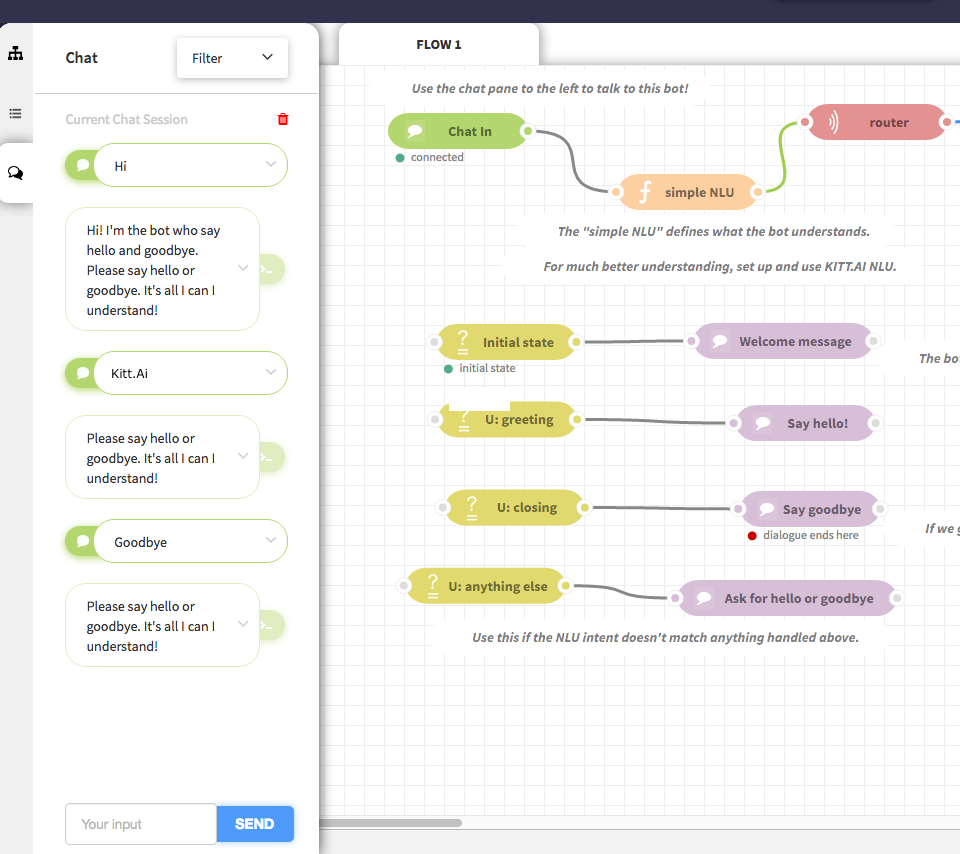
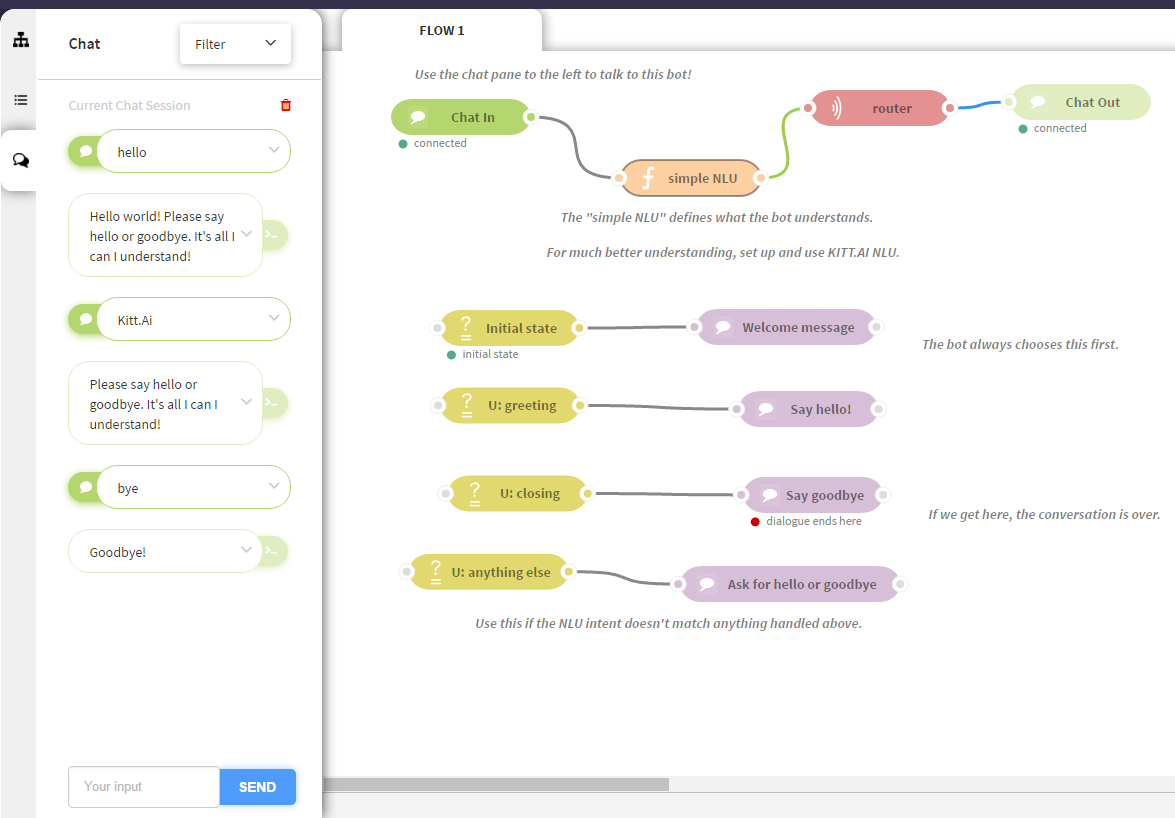
update

diff --git a/chatflow/searchindex.js b/chatflow/searchindex.js
@@ -1,1 +1,1 @@
-Search.setIndex({envversion:49,filenames:["alexa","alexa_advanced","alexa_nlu","build_a_bot","debug","dialogue_nodes","extended_example","facebook","index","kik","oauth2","quickstart","skype","slack","telegram","twilio"],objects:{},objnames:{},objtypes:{},terms:{"479c":[3,5,6,7,9,13],"900584f4":[3,5,6,7,9,13],"boolean":0,"break":[1,4,6],"catch":[13,14],"default":[0,2,3,6,10,13],"final":[0,1,2,3],"function":[1,3,4,5,6,9,10,12],"import":2,"long":[2,6,10,13],"new":[0,1,2,3,6],"null":[1,3,5,6,10,12,14],"return":[1,3,6,7,9,10,12,13,14,15],"short":[10,12,13],"switch":[4,6,10,11,12],"true":[0,1,6],"try":[3,6,10,11,12,13,14,15],"typeof":12,"var":[1,6,10,12,14],"while":0,_access_token:0,_respons:[6,10,15],_session_end:[0,1],_session_id:[0,7,9,12,13,14],_session_start:0,_skill_launch:0,_timeout:[0,7,9,14],_user_id:[0,7,9,12,13,14],abil:[1,3,13],abl:[0,1,3,4,7,9,10,11,12,13,14,15],about:5,abov:[5,6,14],accept:[5,6,9,10,12,13,14,15],access:[0,1,3,5,6,7,8],accesstoken:0,accomplish:5,accord:[5,12],accordingli:[6,15],account:[0,6,8,10,11,12],achiev:0,acquir:10,acqusit:10,across:[0,1],act:[3,5],action:[0,5,6,9,10,13,14,15],activ:[3,14],activat:15,actual:0,add:2,addit:[0,1,3,5,6,7,9,12,13,14,15],addition:[0,5,6],address:[0,3,6,9,10,14,15],adequ:6,administr:13,advertis:12,advertiz:12,affirm:6,after:[1,3,5,6,7,9,10,13,14,15],afterward:3,again:[3,4,6,10,12],against:0,agent:[3,5,6,8],agre:[5,6,10],ahead:[3,14],all:[0,1,2,3,5,6,7,10,12,13],allow:[5,6,11,13,14,15],allowfullscreen:13,almost:[1,5],alphanumer:15,alreadi:[0,6,11,14,15],also:[0,1,2,5,6,9,10,12,13,14,15],although:[6,7],alwai:[3,15],amazon:[0,1,2,5,8],america:0,among:[4,5],amus:3,analyz:3,ani:[1,2,5,6,7,10,11,13,15],anoth:[0,1,3,5,6,10,12,15],answer:[3,6,7,9,13],any:6,anyth:[3,6,11,12],api:3,aplic:15,appear:[0,2,3,6,14],applciat:7,appliact:7,applic:[0,1,3,4,6],application:3,appreci:6,appropri:[5,6,11],arbitrari:5,area:[11,15],around:4,arrai:[7,9,12],array_of:7,arriv:15,arrow:[7,12,14,15],articl:14,asin:12,asset:[1,2],assign:[0,1,5,10],assist:2,associ:[3,12],associat:[6,12],assum:[10,14],atch:[1,2],attach:[3,7,8],attempt:1,attribut:1,auth:15,authent:[10,13],author:[5,10,12,13],automat:[0,10,15],avail:[0,5,6],availalb:0,awai:1,aws:12,back:[0,3,5,6,7,9,10,12,13,14],background:2,base:5,basi:3,basic:[2,3],beat:1,becaus:[0,1,3,10],becom:[11,12],been:6,beet:[1,2],befor:[0,3,10,13,14],behalf:10,bell:8,belong:10,below:[2,3,5,6,9,10,12,13,15],berri:[1,2],besid:3,bet:3,better:6,between:[3,5,10,11,14],biggest:10,blue:[3,7,12,14,15],bob:5,bodi:[3,6,9,10,12,15],boo:[1,2],book:8,bookend:5,bootstrap:2,botfath:14,both:[0,3,4,6,7,10],bother:10,botsworth:9,bottom:[1,3,4],bought:15,box:[1,3,5,6,12],branch:[3,5],brief:8,broken:[1,2],brows:14,browser:[0,1,3,4,6],bubbl:3,bucket:5,bui:[3,12,15],build:2,built:[3,5],busi:[6,14],businesstyp:6,button:[3,4],bye:[6,10,12,15],call:[0,1,2,3,5,6,10,14],callback:[0,13],cambridg:7,camelcas:15,can:[0,1,2,3,4,5,6,7,8,9,10,11,12,13,14,15],cancelint:1,candid:6,cannot:[1,3],canva:[3,4,6,9,11,13,14],capabl:[6,15],capac:14,captur:[0,5,14],cardoutput:1,cardpunchlin:1,care:6,carousel:12,cast:13,categori:[5,7,14],cellphon:0,central:5,certain:[12,14],certifi:0,certificat:0,chaflow:13,chain:13,chang:[3,10,13],channel:[5,13],charact:[12,15],chat:[3,4,6,9,10,11,12,13,14],chatflow_cat_choos:13,chatid:9,check:[0,3,4,5,6,7,9,10,11,12,13,15],checkbox:[5,10,13],chicago:14,chines:[6,14],choic:5,choice_nam:6,choos:[0,5,6,7,9],chosen:[3,5,6],citi:7,clarifi:6,clean:[3,7,11,12,13],clear:[4,10],cleveland:7,click:[0,1,2,3,4,6,7,9,10,11,12,13,14,15],client:[10,13],client_id:13,clipboard:[0,3,7,9,10,12,13,14,15],close:[0,6,15],code:[1,3],coffe:6,collect:5,com:[9,10,14],combin:6,come:[0,1,3,5,10,15],command:[8,10,12],comment:15,common:[5,10],commun:[5,8,10],compact:14,compat:10,complet:[1,3,8,10,13],complex:[1,6],complianc:0,compon:12,compris:5,condit:[3,5,6,10,12,15],config:7,configr:10,configri:12,confirm:[5,14],conjunct:8,connect:[3,4,5,6,7,8,9,10,12],consid:5,consist:5,consol:[0,2,15],constraint:5,construct:8,consum:[6,14],contact:[12,14],contain:[2,3,5,7,9,11,14,15],contenttyp:12,context:[3,5,8],continu:[0,3,4,12],control:[7,9,12,13,14],conveni:6,convent:3,convers:1,conversation_id:12,coordin:14,corner:[3,4,7,9,11,12,13,14,15],correct:[1,2,3],correctli:12,correspond:[5,6,9,10,11,13],correspondingli:13,cortana:5,could:5,count:[3,5,10],counter:[7,15],cours:[3,5,6],cover:14,craft:10,create:[3,7,9,12,13,14],create_facebook_app:7,creation:[3,6,9],credenti:[3,10,12,13],criteria:[3,5],crucial:6,current:[0,1,3,5,7,11,13,14],custom:[0,2,8],custon:9,dai:7,dash:[5,6],dashboard:[7,10,15],data:[2,10],databas:10,deal:0,defin:[0,2,3,5,6,10],definit:6,delet:5,delici:6,demand:5,demo:0,demonstr:[0,4,12,14],depend:[10,12],deploi:0,deploy:[0,1,3,5,6,7,9,13],deploymnet:9,describ:[5,7,9],descript:[6,7,9,10,12,13,14,15],descripton:8,design:5,desir:6,desktop:14,detail:[5,6,9,10,12,13,15],detailpageurl:12,determin:[6,9,12,14],dev:9,develop:[0,2,5,6,10],devic:[0,1,9],dialog:10,dialogu:[1,3],dictat:3,dictionari:6,did:[0,10],didn:[3,6],differ:[0,3,5,6,9,10,12,13],dinner:14,direct:3,directli:[5,6,11],disabl:13,disastr:6,discuss:0,displai:[0,9,15],display_address:14,display_nam:10,district:6,document:[5,6,7,8,10,15],doe:[0,1,2,3,4,5,6,9,12,13,14,15],domain:0,don:[3,6,9,10,14,15],done:0,dont:6,dot:3,doubl:[3,6,7,9,10,12,13,14,15],down:[3,4,6,7,12,13,14,15],download:[3,4,6,7,9,10,12,13,14,15],downtown:14,drag:[3,4,6,7,9,12,13,14],drive:5,drop:[3,4,7,10,12,13,14,15],dump:3,duplic:15,dure:5,each:[3,5,6,10,11,13,15],easi:6,easier:6,easili:[1,2,3,5],eat:6,edit:[3,6,7,9,10,12,13,14,15],editor:[3,5,6,10,11,12,13,14],effect:6,either:[3,6,7,9,12,13,14],element:12,elig:5,els:[3,6,11,14],email:[7,12],empti:[3,10,11,14],enabl:[0,10,13,14,15],enabled:14,encod:14,encourag:12,end:[0,1,3,4,5,6,7,9,10,11,12,13,14,15],endless:5,endpoint:[10,12,13],engag:0,engin:[2,8],english:0,enjoi:2,ensur:[5,6],enter:[0,1],entir:[3,5,6],entiti:[1,2,3,5,6],entranc:[3,5,6,12],entri:5,entrnac:6,enum_choic:6,environ:1,equal:5,err:14,error:6,especi:15,etc:14,evalu:5,even:[5,10],everi:[10,14],everyth:[0,1,2],exampl:[0,2,3,5],except:2,exchang:10,execut:[5,6],exemplifi:14,exist:[5,10],exit:[0,3,5],expand:[3,14],expect:[0,2,12,13,14],experi:0,expir:10,explicit:5,explicitli:0,explor:7,express:2,extern:[0,5,8],extra:15,extract:6,fade:10,faebook:7,fake:[10,15],fals:[0,6],far:[0,6],fast:14,father:14,featur:[2,3,6,7,10,13,15],feedback:6,feel:[3,4,6,12,14],fetch:10,few:[5,8],field:[2,3,5,6,7,10,12,13,14,15],figur:[3,4,6],file:[1,2,3,6,14],fill:[0,2,10,15],filter:[7,12],find:[3,6,13,15],finit:[3,5],finsh:15,firebrand:2,first:[0,3,4,5,6,9,10,12,15],first_nam:10,floor:1,flow:[3,4],fly:2,follow:[0,1,2,3,5,6,7,9,10,12,13,14,15],food:[6,14],forc:0,foreach:12,forget:[6,9,10],forgotten:10,form:[0,3,5,6,15],format:0,formattedpric:12,forth:14,found:[0,4,6,12,14],four:6,fourth:10,framebord:13,framework:12,francisco:6,freedom:4,from:[0,1],full:14,fulli:[3,6],fun:10,further:[0,6],game:13,gener:[2,5,6,7,10,12],geoloc:14,german:0,get:[0,1,3],github:11,give:[0,1,2,3,4,6,9,10,14],given:[0,1,6,10],glad:6,goal:[5,6],goe:5,good:[6,10],goodby:[6,11],googl:[5,11],got:[6,14],gotta:0,gps:14,grai:10,grammar:1,gratitud:6,great:[0,2,4,6,11,12],greater:5,greet:[6,7,10,13],grei:3,grid:[13,14,15],guarante:15,gui:[1,2],guid:[0,6],had:[3,10],halt:3,hand:[4,7,11,12,13,14,15],handl:[0,3,6,12],happen:[5,13],happi:[2,6],have:[0,1,2,3,5,6,10,12,13,14,15],head:3,hear:6,heard:0,hello:[0,3,6,7,10,11,12,13,14],help:[0,1,6,10,13],helpintent:1,her:10,here:[0,3,5,6,8,9,10,12,13,15],hero:12,hidden:11,high:15,highlight:[1,12,15],him:9,histori:10,hit:[1,15],hmm:6,hold:[0,5],holder:14,home:3,honor:3,hope:2,host:[10,11],hour:[6,10],how:[0,1,2,3,4,5,6,7,9,10,11,12,13,14,15],howev:[0,3,7,15],http:[3,5,6,7,9,10,11,13,14],human:14,icon:[10,15],idea:[6,10,13],ident:5,identifi:10,idl:15,ignore:12,illustr:3,imag:[3,5,9,10,12,13,14],image:[12,14],image_url:[6,14],immedi:[2,5,10],implement:2,improv:2,inaccur:2,includ:[3,5,6,14],incom:[0,5,12,13,15],incorpor:2,increas:15,index:1,indic:1,individu:13,infinit:5,info:[4,5,6,9,11],info_request:6,inform:[0,3,6,9,10,11,12,14],init:1,initi:[1,3,5,6,15],initial:3,inlin:14,inline:8,inline_queri:14,inlinequeryresult:14,input:[0,1],input_message_cont:14,inqueri:14,insert:3,insid:3,insight:0,insist:3,inspect:0,instal:12,install:9,installer:[7,12,14,15],instanc:5,instead:[0,14],instruct:[0,12],integr:[6,13],integrat:[12,13],intentrequest:0,inter:5,interact:[0,2,3,5,6,8,9,10,11],interfac:[1,2,6,8],intern:5,introduc:[0,3],intuit:[1,8],invoc:0,involv:5,isn:10,issu:[3,6],item:12,itemattribut:12,itemid:12,itemlink:12,itemlookup:12,itemlookuprespons:12,itemsearch:12,itemsearchrespons:12,javascript:5,job:5,join:[12,14,15],joke_list:1,jokeid:1,jose:3,json:[2,3,4,6,7,9,12,13,14],jump:14,just:[3,6,10,12,15],keep:[3,6,8,10],kei:[5,6,9,10,12,14],kept:10,kevin:2,keyboard:8,keyword:12,kik:8,kikbot:9,kill:15,kind:6,kit:[0,2],kitt:[0,1,2,3,5,6,7,9,10,11,12,13,14,15],kitt_skill_launch:0,know:[0,10,15],label:5,ladi:[1,2],languag:0,last:[5,6,10],later:[0,1,5,10,13],latitud:14,launchrequest:0,learn:[5,11,13,14],leav:[3,10,15],left:[3,11,13,15],lefthand:3,length:[1,6,10,14,15],let:[0,3,6,9,10,13,14],librari:[5,7,11,12,13,14,15],like:[0,3,4,5,6,7,9,10,12,13,15],limit:[1,6,13],limitless:5,line:0,link:0,list:[2,3,5,6,7,9,12,13,14,15],list_of_setup_names:1,list_of_setupnam:2,listen:0,listpric:12,literal:0,littl:[1,2,3],load:[3,7,12],locat:[5,6],log:[0,4,11,12,15],login:10,longer:15,longitud:14,look:[0,1,3,4,6,7,9,10,11,12,13,14,15],loop:[5,6],lower:10,luckili:2,macleod:2,made:[5,6],mai:[5,6,7,9,10,11,13,15],main:[1,3,5,11,15],maintain:1,make:[0,1,2,5,6,9,10,12,13,14,15],make_restaurant_reserv:5,manag:[1,7,10,12,13,14],mani:[3,5,10],manipul:5,manner:[10,14],manual:[2,15],map:[3,5],mari:5,mark:[2,3,5,6],match:[0,2,5,12],math:1,matsuhisa:5,mean:5,mechan:5,mediumimag:12,meeting_loc:5,member:13,mention:[13,14],menu:[4,13,14,15],messag:[0,1,3,4,5,6,7,8,9,10,11,12],message_text:[12,14],message_typ:12,messeng:[7,8],met:5,method:[10,14],mexican:6,microsoft:[5,12],mid:7,might:[0,6],migrat:[0,2],minim:2,minut:2,mistak:6,mock:10,mockdatabas:10,model:[0,2,3,6],month:10,morn:6,most:5,mostli:[6,10],movi:5,msg:[0,1,3,5,6,7,9,10,12,13,14,15],much:6,multi:0,multipl:[1,5,15],music:2,must:[3,5,6,7,12,15],nacho:6,nah:3,name:[0,1,2,3,5,6,7,9,10,12,13,14,15],navig:11,necessari:6,need:[1,2,3,5,6,10,13,14],neg:6,negative_respons:3,neither:6,network:[3,5,6],never:3,newbot:14,newitem:12,newli:[3,7,12],next:[0,1,4,6,7,10,12,14],nice:[13,14,15],night:6,nlu:0,non:6,none:[5,6],nope:6,nor:6,north:0,note:[3,5],noth:[3,12],notic:15,novemb:0,now:[0,1,3,6,7,10,11,12,13,14,15],number:[3,5,6,8,13,15],numresult:6,oauth2:8,oauth:10,object:[0,5,7,10,12,13,14],observ:2,obtain:[6,10],occurr:5,offer:12,offici:11,often:5,okai:[6,14],old:[1,2,10],olditem:12,onc:[3,5,6,10,13],once:[3,4,5,6,10,12,13,14],one:[1,3],onli:[0,2,3],onlin:[7,13,14],only:10,onto:[0,3,4,7,9,12,13],oop:6,open:[0,3],openurl:12,oper:[3,6],opit:0,opportun:5,optim:3,option:[0,3,5,6,7,9,10,12,14,15],order:[3,5,6,10,12,13,14,15],organ:[5,7],orient:11,origin:[3,5,7,9,12,14],other:[3,5,6,7,10,13,14,15],otherwis:[0,3,7,8],our:[3,5,6,7,8,9,11,12,13,14],ourselv:0,outcom:6,outgo:[0,5],output:[0,1,2],outputspeech:[0,1],outsid:5,over:[1,3,5],owl:[1,2],own:[0,5,10,14,15],packag:6,padlock:15,page:[0,3,6],paid:12,pain:2,pair:[3,5],palett:[7,10,12,14],panel:[4,10,15],paradigm:6,pars:12,part:[5,6,7,9,10,13,15],partial:3,participant_nam:5,party_s:5,pass:[3,5,10],password:12,past:[0,3,5,6,7,9,10,12,13,14,15],paus:4,payload:[0,3,5,6,7,9,10,12,13,14,15],payment:15,pencil:[1,2,10],peopl:5,perfect:0,perform:[0,2,5,6],perk:14,persist:[0,1,3,5,10],perviou:[0,6],phase:1,phone:[0,10,14,15],photo:14,phrase:[2,6],pick:[0,6],pictur:[5,9,13],piec:10,place:[3,5,6,10,13,14],plai:[0,3,4,6,12,14],plaintext:0,platform:[3,5,8,11],playback:9,pleas:[0,1,2,3,5,6,10,12],plu:10,plug:0,png:14,point:[1,4,5,6],polici:10,pop:[2,3,11,12],popul:[4,11,14],portion:9,posit:6,positive_respons:3,possibl:[5,10],post:13,pre:5,precis:5,predefin:10,predict:2,prefix:3,prepar:[6,8,12],present:5,press:[10,13,14,15],prevent:5,preview:12,previou:[1,2,12,13,15],previous:10,price:[5,12],primari:10,prioriti:[5,6],privaci:[0,10,12],problem:[6,10],proce:[1,10],proceed:3,process:2,produc:[3,5,6],product:[7,12],profil:[10,12],program:[14,15],progress:4,prompt:6,properti:[0,3,5,6,10,12,13,14,15],protect:10,provid:[0,2,5,6,8,10,11,12,13,14,15],publish:[0,12],push:[12,14],put:6,queri:5,quick:[7,8],quickli:2,quota:13,rain:7,random:[1,7,13],randomcat:13,randomli:6,rank:5,rate:[6,14],rather:5,raw:[3,12,13],raw_messag:13,raw_message_properti:13,reach:[3,5,13],read:[10,15],readi:[6,12,13],real:[0,3,10],receiv:[5,7,9,10,12,13,14,15],recent:6,recipi:[7,15],recognit:0,recommend:0,reconsid:3,recreat:1,red:[3,4,5],redefin:15,redeploi:13,redicrect_uri:13,redirect:10,rediriect:12,ref:7,refer:[6,12],reflect:0,refresh:[10,11],regard:14,regex:[5,12],region:0,regist:[0,9],registr:15,regular:2,reivew:6,reject:[5,6],relat:10,rememb:[1,5],remot:0,remov:[3,6,10,15],repeat:[0,6,7,13],replac:[12,15],repli:[0,7],repres:5,represent:14,reproduc:2,reprompttext:1,req_pend:6,reqreadi:6,request_address:6,request_hour:6,request_more_opt:6,request_r:6,request_suggest:6,requir:[6,7,9,10,12,13,14],reserv:5,reset:[5,15],resourc:[8,10,11],respect:[2,3],respond:[0,6,11,13,14,15],respons:[0,3,5,6,10,14],responsegroup:12,rest:[0,5,10],restaur:6,restaurant_nam:5,restful:3,restor:10,restrict:3,result:[3,5],retriev:[1,10],revers:8,review:[6,14],review_count:[6,14],ride:10,right:[1,3,4,5,7,9,11,12,13,14,15],robust:6,room:5,rough:14,router:[0,1],rule:[10,12],run:[5,15],sai:[0,1,2,3,5,6,11],said:[0,3,6],same:[0,1,5,6,9,10],san:6,satisfi:5,save:[6,7,10,13,14,15],scan:9,scenario:[6,10],schema:[0,1,2],scope:10,screen:[3,5,15],screenshot:14,seafood:14,seamlessli:6,search:[6,7],searchindex:12,seattl:[6,14],second:[0,6,10,12,15],secret:[6,10,12,13,14],section:[0,2,3,5,6,7,9,10,11,12,13,14,15],see:[0,1,3,5,6,7,9,10,12,13,15],select:[0,1,3,5,6,7,9,10,11,12,13,14],selectbot:[13,14],send:[0,1,4,5,7],sender:[7,15],sendvenu:14,sens:5,sensit:3,sent:[0,5,9,13,14,15],sentenc:[0,3],seq:7,sequenc:[5,7],serv:13,server:[9,10,13,14],servic:[0,1,5,8],session:[0,1,3,7,8,10,12,13,14],sessionattribut:[0,1],sessionendedrequest:0,sessionid:0,set:[0,1,3,4,5,6,7,8],setinlin:14,setinlinegeo:14,setup:1,setupnam:[1,2],setupnamewhoint:[1,2],sever:[5,11],shall:3,share:[10,14],shift:6,shop:4,should:[0,2,3,4,5,6,7,9,10,12,13,14,15],shouldendsess:0,show:[0,2,3,7,9,12,13,14,15],showcas:6,shown:[2,3,5,10,15],sid:15,side:[11,13,15],sign:[6,12,15],similar:6,similarli:1,simpl:[0,3,6],simpli:[0,3,4,5],simplic:10,simplifi:10,simplist:14,simul:[0,1],sinc:3,singl:[0,3],situat:6,six:5,skip:[7,10,15],skype:8,slack:8,slash:8,slot:[0,1,2],slowli:0,small:[6,13],smart:[0,8],smooth:[0,2],sms:[5,8,10,15],snow:[1,2],solid:5,solut:2,some:[9,10],someon:14,someth:[3,4,6,9],sorri:[3,6],sound:6,sourc:[0,1,10],speak:1,special:[3,10],specif:[0,3,5,6,9,10,12],specifi:[0,3,10,12],speech:[0,1,2,6,8],speechpunchlin:1,speechtext:1,spell:[1,2],split:[10,12,14,15],split_len:14,ssml:[0,1],stage:1,stai:14,star:6,start:[0,3],start_citi:10,state:0,state_choic:6,statement:12,statu:6,step:[0,1,2],sticker:[9,14],still:[0,1,2,5,6,8,10,14],stop:10,stopintent:1,storag:10,store:[1,3,6,7,10],str:6,string:[0,3,4,5,7,9,12,13,14,15],stringifi:12,structur:[0,14],style:2,sub:15,submit:[0,3],subscrib:7,subscript:7,subtitl:12,successfulli:[1,13],sue:5,suggest:[0,6,9],superint:0,support:[0,1,2,3,4,6,8,9,12,13,14],sure:[3,6,12,15],symbol:5,syou:12,system:[2,3,5,6],tab:3,taco:6,tag:[0,1,3,4,6,9,11,12,13,14,15],take:[1,6,10,14],talk:[11,14],tap:9,task:11,teach:2,telegram:8,tellmeajokeint:[1,2],templat:3,ten:6,term:[6,10,12],text:[0,1,3,6,7,8,9,10,12,13,14,15],than:[3,5,10],thank:[3,6],thei:[0,5,10,13],them:[0,2,3,6,7,9,10,12,13,14,15],thi:[0,1,2,3,4,5,6,7,8,9,10,11,12,13,14,15],thing:2,think:5,third:[6,10,15],those:[0,6,10,15],thought:5,three:[0,2,6,13],through:[0,1,3,4,5],throughout:[5,6],thu:[1,3],thumb_url:14,tidi:[13,14,15],time:[0,1,3,5,6,10,12,14,15],timeout:[7,13,14],timestamp:[7,12],titl:[12,14],togeth:[3,6,9],toggl:[4,11],token:[0,3,5,6,7,9],tokyo:6,too:[5,9,10,15],tool:[0,4,12],toolbar:4,top:[3,9],touch:9,toward:3,train:3,transform:12,trashcan:4,tri:10,trial:15,trick:0,trim:14,truli:0,tune:15,twilio:[5,8],twillio:15,twitter:11,two:[0,3,5,6,10,13,14],type:[0,1,2,5,6,7,9,11,12,13,14,15],typic:5,uber:[5,8],uber_oauth2:10,ultim:0,unchang:[10,15],under:[0,3,5,6,7,8,11,12,13,14],understand:[0,3,5],unicod:15,uniqu:[9,13,14],univeristi:6,unlik:5,unlike:5,unpublish:0,updat:[3,5,6],update:5,upon:10,upper:[3,4,7,9,10,11,13,14],uri:13,url:[0,1,3,5,6,7,9,10,12],usabl:10,usag:0,use:[1,3,6,7,9,10,11,12,13,14],used:[13,14],user:[0,1,2,3,5],user_choic:6,user_id:12,user_nam:12,userid:0,usernam:[9,13,14],using:[1,9,12],usual:5,utter:[0,1,2,3,5,6],valid:10,valu:[0,5,6,7,10,12,15],vari:5,variou:[8,11,14],venu:14,verbatim:0,verbos:2,veri:[0,10],verif:7,verifi:7,version:0,via:[1,5,10,14],viabl:5,view:[13,14,15],visibl:15,visit:[1,5,12,13],visual:8,vnd:12,vocabulari:[0,5],voic:0,vote:13,wai:[0,3,5,8,10,15],wait:[0,3,11],walk:[1,3,4,6,10,12],walkthrough:0,want:[0,5,6,10,14,15],washington:6,watch:4,web:[5,9,10,11],webhook:[0,7,13],weblink:12,welcom:[0,6],well:[6,9],were:10,what:[0,1,2,3,4,5,6],when:[0,1,3,5,6,7,9,10,11,12,13,14,15],whenev:[1,3,5,6,13],where:[5,6,7,9,10,11],whether:[3,6],which:[0,3,5,6,9,10,12],whistl:8,who:[0,1,2,14,15],whole:[0,1,15],whom:1,whosthereint:[1,2],wildcard:0,window:[3,10,12,14],wire:[3,5,14],wise:[1,2],wish:[3,6],wishlist:12,within:[1,2,3,5],without:[0,1,3,10,15],won:10,woo:[1,2],word:[0,5],work:[0,1,5,6,8,12,13,14],workspac:[7,12],world:[5,10,11],would:[0,3,6,7,9],wrap:[0,5],wrapper:5,write:[6,9,12,13,15],written:7,wrong:10,xuchen:9,xxx:[3,5,6,7,9,13],yeah:6,yellow:15,yelp:5,yelp_result:6,yet:[3,6,10],you:[0,1,2,3,4,6,7,9,10,11,12,13,14,15],yourself:11,zero:5,zip:6},titles:["Alexa Skill Tutorials","Advanced Alexa Skill Tutorial","Advanced Alexa Skill NLU Tutorial","ChatFlow Build A Bot Tutorial","Debug ChatFlow","Dialogue Nodes","Extended Example: A Conversational Yelp Bot","Facebook Tutorials","Welcome to ChatFlow","Kik Bot Tutorials","OAuth2/Uber Tutorials","ChatFlow Quick Start","Skype Bot Tutorials","Slack Bot Tutorials","Telegram Bot Tutorials","Twilio Bot Tutorials"],titleterms:{"case":[3,6],"export":[2,3],"final":[5,6],"function":15,"import":[3,7,9,13,14],"new":[7,11,12,13,14,15],about:6,access:[10,11],account:15,acquir:14,add:[3,15],adding:[3,4],advanc:[0,1,2,7,9,12,13,15],alexa:[0,1,2],amazon:12,answere:6,api:[5,14],app:[0,1,3,9,11,12,13,15],applic:[7,9,10,13],applicat:[1,9,10,13,14,15],ask:0,attach:9,attachment:9,aware:14,basic:[5,15],book:12,bot:[0,3,6,7,9,10,12,13,14,15],breakpoint:4,browser:9,build:3,button:7,card:0,cat:[0,9,13],certif:0,chatflow:[0,1,3,4,5,7,8,9,11,12,13,14,15],choic:6,choos:13,code:4,collect:6,color:9,command:13,companion:0,configur:[0,3,5,6,10,13,14,15],connect:13,content:[0,1,2,3,4,5,6,7,8,9,10,11,12,13,14,15],convers:[3,6],copi:0,creat:[0,1,2,3,6,7,9,10,11,12,13,14,15],credenti:14,custom:9,deal:3,debug:[4,15],demo:9,deploi:[3,4,13,14,15],descripton:10,dialogu:5,direct:5,echo:[0,7,9,12,13,14],enter:[3,5],exampl:6,explain:1,extend:6,facebook:7,finish:[0,12],flow:[5,6,10,14],forecast:7,format:2,free:3,from:[3,5,6,11,15],fulfil:6,get:[4,6,12],global:1,informat:[0,6],initial:6,inline:14,input:[3,5],insid:4,intent:0,interact:13,introduct:[0,1,2,3,4,6,10,11,15],joke:1,keyboard:9,kik:9,knock:1,languag:3,launch:0,line:4,link:5,locat:14,lunch:3,messag:13,miss:6,mobil:9,mode:4,more:0,move:4,multi:1,natur:3,nlu:[2,3,5,6,7,9,13],node:[0,3,4,5,7,9,10,12,13,14,15],oauth2:10,onli:5,open:4,ordere:5,out:[0,7,9,12,13,14,15],output:[3,5],overview:1,page:7,prefer:5,prepar:15,present:6,print:4,process:3,project:[2,6,11],queri:6,question:6,quick:11,reconfigur:3,redirect:13,regist:[10,12],reprompt:0,request:[0,6],result:6,reus:10,revers:15,router:[3,5,15],sampl:[0,11],scratch:[3,15],search:12,send:9,servic:10,session:15,set:[9,13,14],setup:[7,9,13,14],simpl:[7,9,10,12,13,14,15],skill:[0,1,2],skype:12,slack:13,slash:13,ssl:0,start:[4,6,11,12],state:[1,3,5],statu:14,step:4,summari:[2,5],support:15,tab:4,tabl:[0,1,2,3,4,5,6,7,9,10,11,12,13,14,15],team:13,telegram:14,tell:[0,1],templat:7,test:[0,10,12,13],thought:6,through:6,todo:[9,13],token:[10,14],track:1,turn:1,tutori:[0,1,2,3,7,9,10,12,13,14,15],twilio:15,uber:10,unabl:3,understand:6,url:13,user:6,utteranc:0,variabl:1,video:[0,1,3,6,7,9,10,12,13,14,15],walkthrough:[3,6,9,12,14],weather:7,welcom:8,wisegui:1,yelp:[6,14],your:[0,4,6,12,13]}})
+Search.setIndex({envversion:49,filenames:["alexa","alexa_advanced","alexa_nlu","build_a_bot","debug","dialogue_nodes","extended_example","facebook","index","kik","oauth2","quickstart","skype","slack","telegram","twilio"],objects:{},objnames:{},objtypes:{},terms:{"479c":[3,5,6,7,9,13],"900584f4":[3,5,6,7,9,13],"boolean":0,"break":[1,4,6],"catch":[13,14],"default":[0,2,3,6,10,13],"final":[0,1,2,3],"function":[1,3,4,5,6,9,10,12],"import":2,"long":[2,6,10,13],"new":[0,1,2,3,6],"null":[1,3,5,6,10,12,14],"return":[1,3,6,7,9,10,12,13,14,15],"short":[10,12,13],"switch":[4,6,10,11,12],"true":[0,1,6],"try":[3,6,10,11,12,13,14,15],"typeof":12,"var":[1,6,10,12,14],"while":0,_access_token:0,_respons:[6,10,15],_session_end:[0,1],_session_id:[0,7,9,12,13,14],_session_start:0,_skill_launch:0,_timeout:[0,7,9,14],_user_id:[0,7,9,12,13,14],abil:[1,3,13],abl:[0,1,3,4,7,9,10,11,12,13,14,15],about:5,abov:[5,6,14],accept:[5,6,9,10,12,13,14,15],access:[0,1,3,5,6,7,8],accesstoken:0,accomplish:5,accord:[5,12],accordingli:[6,15],account:[0,6,8,10,11,12],achiev:0,acquir:10,acqusit:10,across:[0,1],act:[3,5],action:[0,5,6,9,10,13,14,15],activ:[3,14],activat:15,actual:0,add:2,addit:[0,1,3,5,6,7,9,12,13,14,15],addition:[0,5,6],address:[0,3,6,9,10,14,15],adequ:6,administr:13,advertis:12,advertiz:12,affirm:6,after:[1,3,5,6,7,9,10,13,14,15],afterward:3,again:[3,4,6,10,12],against:0,agent:[3,5,6,8],agre:[5,6,10],ahead:[3,14],all:[0,1,2,3,5,6,7,10,12,13],allow:[5,6,11,13,14,15],allowfullscreen:13,almost:[1,5],alphanumer:15,alreadi:[0,6,11,14,15],also:[0,1,2,5,6,9,10,12,13,14,15],although:[6,7],alwai:[3,15],amazon:[0,1,2,5,8],america:0,among:[4,5],amus:3,analyz:3,ani:[1,2,5,6,7,10,11,13,15],anoth:[0,1,3,5,6,10,12,15],answer:[3,6,7,9,13],any:6,anyth:[3,6,11,12],api:3,aplic:15,appear:[0,2,3,6,14],applciat:7,appliact:7,applic:[0,1,3,4,5,6],application:3,appreci:6,appropri:[5,6,11],arbitrari:5,area:[11,15],around:4,arrai:[7,9,12],array_of:7,arriv:15,arrow:[7,12,14,15],articl:14,asin:12,asset:[1,2],assign:[0,1,5,10],assist:2,associ:[3,12],associat:[6,12],assum:[10,14],atch:[1,2],attach:[3,7,8],attempt:1,attribut:1,auth:15,authent:[10,13],author:[5,10,12,13],automat:[0,10,15],avail:[0,5,6],availalb:0,awai:1,aws:12,back:[0,3,5,6,7,9,10,12,13,14],background:2,base:5,basi:3,basic:[2,3],beat:1,becaus:[0,1,3,10],becom:[11,12],been:6,beet:[1,2],befor:[0,3,10,13,14],behalf:10,bell:8,belong:10,below:[2,3,5,6,9,10,12,13,15],berri:[1,2],besid:3,bet:3,better:6,between:[3,5,10,11,14],biggest:10,blue:[3,7,12,14,15],bob:5,bodi:[3,6,9,10,12,15],boo:[1,2],book:8,bookend:5,bootstrap:2,botfath:14,both:[0,3,4,6,7,10],bother:10,botsworth:9,bottom:[1,3,4],bought:15,box:[1,3,5,6,12],branch:[3,5],brief:8,broken:[1,2],brows:14,browser:[0,1,3,4,6],bubbl:3,bucket:5,bui:[3,12,15],build:2,built:[3,5],busi:[6,14],businesstyp:6,button:[3,4],bye:[6,10,11,12,15],call:[0,1,2,3,5,6,10,14],callback:[0,13],cambridg:7,camelcas:15,can:[0,1,2,3,4,5,6,7,8,9,10,11,12,13,14,15],cancelint:1,candid:6,cannot:[1,3],canva:[3,4,6,9,11,13,14],capabl:[6,15],capac:14,captur:[0,5,14],cardoutput:1,cardpunchlin:1,care:6,carousel:12,cast:13,categori:[5,7,14],cellphon:0,central:5,certain:[12,14],certifi:0,certificat:0,chaflow:13,chain:13,chang:[3,10,13],channel:[5,13],charact:[12,15],chat:[3,4,6,9,10,11,12,13,14],chatflow_cat_choos:13,chatid:9,check:[0,3,4,5,6,7,9,10,11,12,13,15],checkbox:[5,10,13],chicago:14,chines:[6,14],choic:5,choice_nam:6,choos:[0,5,6,7,9],chosen:[3,5,6],citi:7,clarifi:6,clean:[3,7,11,12,13],clear:[4,10],cleveland:7,click:[0,1,2,3,4,6,7,9,10,11,12,13,14,15],client:[10,13],client_id:13,clipboard:[0,3,7,9,10,12,13,14,15],close:[0,6,15],code:[1,3],coffe:6,collect:5,com:[9,10,14],combin:6,come:[0,1,3,5,10,15],command:[8,10,12],comment:15,common:[5,10],commun:[5,8,10],compact:14,compat:10,complet:[1,3,8,10,13],complex:[1,6],complianc:0,compon:12,compris:5,condit:[3,5,6,10,12,15],config:7,configr:10,configri:12,confirm:[5,14],conjunct:8,connect:[3,4,5,6,7,8,9,10,12],consid:5,consist:5,consol:[0,2,15],constraint:5,construct:8,consum:[6,14],contact:[12,14],contain:[2,3,5,7,9,11,14,15],contenttyp:12,context:[3,5,8],continu:[0,3,4,12],control:[7,9,12,13,14],conveni:6,convent:3,convers:1,conversation_id:12,coordin:14,corner:[3,4,7,9,11,12,13,14,15],correct:[1,2,3],correctli:12,correspond:[5,6,9,10,11],correspondingli:13,cortana:5,could:5,count:[3,5,10],counter:[7,15],cours:[3,5,6],cover:14,craft:10,create:[3,7,9,12,13,14],create_facebook_app:7,creation:[3,6,9],credenti:[3,10,12,13],criteria:[3,5],crucial:6,current:[0,1,3,5,7,11,13,14],custom:[0,2,8],custon:9,dai:7,dash:[5,6],dashboard:[7,10,15],data:[2,10],databas:10,deal:0,defin:[0,2,3,5,6,10],definit:6,delet:5,delici:6,demand:5,demo:0,demonstr:[0,4,12,14],depend:[10,12],deploi:0,deploy:[0,1,3,5,6,7,9,13],deploymnet:9,describ:[5,7,9],descript:[6,7,9,10,12,13,14,15],descripton:8,design:5,desir:6,desktop:14,detail:[5,6,9,10,12,13,15],detailpageurl:12,determin:[6,9,12,14],dev:9,develop:[0,2,5,6,10],devic:[0,1,9],dialog:10,dialogu:[1,3],dictat:3,dictionari:6,did:[0,10],didn:[3,6],differ:[0,3,5,6,9,10,12,13],dinner:14,direct:3,directli:[5,6,11],disabl:13,disastr:6,discuss:0,displai:[0,9,15],display_address:14,display_nam:10,district:6,document:[5,6,7,8,10,15],doe:[0,1,2,3,4,5,6,9,12,13,14,15],domain:0,don:[3,6,9,10,14,15],done:0,dont:6,dot:3,doubl:[3,6,7,9,10,12,13,14,15],down:[3,4,6,7,12,13,14,15],download:[3,4,6,7,9,10,12,13,14,15],downtown:14,drag:[3,4,6,7,9,12,13,14],drive:5,drop:[3,4,7,10,12,13,14,15],dump:3,duplic:15,dure:5,each:[3,5,6,10,11,13,15],easi:6,easier:6,easili:[1,2,3,5],eat:6,edit:[3,6,7,9,10,12,13,14,15],editor:[3,5,6,10,11,12,13,14],effect:6,either:[3,6,7,9,12,13,14],element:12,elig:5,els:[3,6,11,14],email:[7,12],empti:[3,10,11,14],enabl:[0,10,13,14,15],enabled:14,encod:14,encourag:12,end:[0,1,3,4,5,6,7,9,10,11,12,13,14,15],endless:5,endpoint:[10,12,13],engag:0,engin:[2,8],english:0,enjoi:2,ensur:[5,6],enter:[0,1],entir:[3,5,6],entiti:[1,2,3,5,6],entranc:[3,5,6,12],entri:5,entrnac:6,enum_choic:6,environ:1,equal:5,err:14,error:6,especi:15,etc:14,evalu:5,even:[5,10],everi:[10,14],everyth:[0,1,2],exampl:[0,2,3,5],except:2,exchang:10,execut:[5,6],exemplifi:14,exist:[5,10],exit:[0,3,5],expand:[3,14],expect:[0,2,12,13,14],experi:0,expir:10,explicit:5,explicitli:0,explor:7,express:2,extern:[0,5,8],extra:15,extract:6,fade:10,faebook:7,fake:[10,15],fals:[0,6],far:[0,6],fast:14,father:14,featur:[2,3,6,7,10,13,15],feedback:6,feel:[3,4,6,12,14],fetch:10,few:[5,8],field:[2,3,5,6,7,10,12,13,14,15],figur:[3,4,6],file:[1,2,3,6,14],fill:[0,2,10,15],filter:[7,12],find:[3,6,13,15],finit:[3,5],finsh:15,firebrand:2,first:[0,3,4,5,6,9,10,12,15],first_nam:10,floor:1,flow:[3,4],fly:2,follow:[0,1,2,3,5,6,7,9,10,12,13,14,15],food:[6,14],forc:0,foreach:12,forget:[6,9,10],forgotten:10,form:[0,3,5,6,15],format:0,formattedpric:12,forth:14,found:[0,4,6,12,14],four:6,fourth:10,framebord:13,framework:12,francisco:6,freedom:4,from:[0,1],full:14,fulli:[3,6],fun:10,further:[0,6],game:13,gener:[2,5,6,7,10,12],geoloc:14,german:0,get:[0,1,3],github:11,give:[0,1,2,3,4,6,9,10,14],given:[0,1,6,10],glad:6,goal:[5,6],goe:5,good:[6,10],goodby:[6,11],googl:[5,11],got:[6,14],gotta:0,gps:14,grai:10,grammar:1,gratitud:6,great:[0,2,4,6,11,12],greater:5,greet:[6,7,10,13],grei:3,grid:[13,14,15],guarante:15,gui:[1,2],guid:[0,6],had:[3,10],halt:3,hand:[4,7,11,12,13,14,15],handl:[0,3,6,12],happen:[5,13],happi:[2,6],have:[0,1,2,3,5,6,10,12,13,14,15],head:3,hear:6,heard:0,hello:[0,3,6,7,10,11,12,13,14],help:[0,1,6,10,13],helpintent:1,her:10,here:[0,3,5,6,8,9,10,12,13,15],hero:12,hidden:11,high:15,highlight:[1,12,15],him:9,histori:10,hit:[1,15],hmm:6,hold:[0,5],holder:14,home:3,honor:3,hope:2,host:[10,11],hour:[6,10],how:[0,1,2,3,4,5,6,7,9,10,11,12,13,14,15],howdi:11,howev:[0,3,7,15],http:[3,5,6,7,9,10,11,13,14],human:14,icon:[10,15],idea:[6,10,13],ident:5,identifi:10,idl:15,ignore:12,illustr:3,imag:[3,5,9,10,12,13,14],image:[12,14],image_url:[6,14],immedi:[2,5,10],implement:2,improv:2,inaccur:2,includ:[3,5,6,14],incom:[0,5,12,13,15],incorpor:2,increas:15,index:1,indic:1,individu:13,infinit:5,info:[4,5,6,9,11],info_request:6,inform:[0,3,6,9,10,11,12,14],init:1,initi:[1,3,5,6,15],initial:3,inlin:14,inline:8,inline_queri:14,inlinequeryresult:14,input:[0,1],input_message_cont:14,inqueri:14,insert:3,insid:3,insight:0,insist:3,inspect:0,instal:12,install:9,installer:[7,12,14,15],instanc:5,instead:[0,14],instruct:[0,12],integr:[6,13],integrat:[12,13],intentrequest:0,inter:5,interact:[0,2,3,5,6,8,10,11],interfac:[1,2,6,8],intern:5,introduc:[0,3],intuit:[1,8],invoc:0,involv:5,isn:10,issu:[3,6],item:12,itemattribut:12,itemid:12,itemlink:12,itemlookup:12,itemlookuprespons:12,itemsearch:12,itemsearchrespons:12,javascript:5,job:5,join:[12,14,15],joke_list:1,jokeid:1,jose:3,json:[2,3,4,6,7,9,12,13,14],jump:14,just:[3,6,10,12,15],keep:[3,6,8,10],kei:[5,6,9,10,12,14],kept:10,kevin:2,keyboard:8,keyword:12,kik:8,kikbot:9,kill:15,kind:6,kit:[0,2],kitt:[0,1,2,3,5,6,7,9,10,11,12,13,14,15],kitt_skill_launch:0,know:[0,10,15],label:5,ladi:[1,2],languag:0,last:[5,6,10],later:[0,1,5,10,13],latitud:14,launchrequest:0,learn:[5,11,13,14],leav:[3,10,15],left:[3,11,13,15],lefthand:3,length:[1,6,10,14,15],let:[0,3,6,9,10,13,14],librari:[5,7,11,12,13,14,15],like:[0,3,4,5,6,7,9,10,12,13,15],limit:[1,6,13],limitless:5,line:0,link:0,list:[2,3,5,6,7,9,12,13,14,15],list_of_setup_names:1,list_of_setupnam:2,listen:0,listpric:12,literal:0,littl:[1,2,3],load:[3,7,12],locat:[5,6],log:[0,4,11,12,15],login:10,longer:15,longitud:14,look:[0,1,3,4,6,7,9,10,11,12,13,14,15],loop:[5,6],lower:10,luckili:2,macleod:2,made:[5,6],mai:[5,6,7,10,11,13,15],main:[1,3,5,11,15],maintain:1,make:[0,1,2,5,6,9,10,12,13,14,15],make_restaurant_reserv:5,manag:[1,7,10,12,13,14],mani:[3,5,10],manipul:5,manner:[10,14],manual:[2,15],map:[3,5],mari:5,mark:[2,3,5,6],match:[0,2,5,12],math:1,matsuhisa:5,mean:5,mechan:5,mediumimag:12,meeting_loc:5,member:13,mention:[13,14],menu:[4,13,14,15],messag:[0,1,3,4,5,6,7,8,9,10,11,12],message_text:[12,14],message_typ:12,messeng:[7,8],met:5,method:[10,14],mexican:6,microsoft:[5,12],mid:7,might:[0,6],migrat:[0,2],minim:2,minut:2,mistak:6,mock:10,mockdatabas:10,model:[0,2,3,6],month:10,morn:6,most:5,mostli:[6,10],movi:5,msg:[0,1,3,5,6,7,9,10,12,13,14,15],much:6,multi:0,multipl:[1,5,15],music:2,must:[3,5,6,7,12,15],nacho:6,nah:3,name:[0,1,2,3,5,6,7,9,10,12,13,14,15],navig:11,necessari:6,need:[1,2,3,5,6,10,13,14],neg:6,negative_respons:3,neither:6,network:[3,5,6],never:3,newbot:14,newitem:12,newli:[3,7,12],next:[0,1,4,6,7,10,12,14],nice:[13,14,15],night:6,nlu:0,non:6,none:[5,6],nope:6,nor:6,north:0,note:[3,5],noth:[3,12],notic:15,novemb:0,now:[0,1,3,6,7,10,11,12,13,14,15],number:[3,5,6,8,13,15],numresult:6,oauth2:8,oauth:10,object:[0,5,7,10,12,13,14],observ:2,obtain:[6,10],occurr:5,offer:12,offici:11,often:5,okai:[6,14],old:[1,2,10],olditem:12,onc:[3,5,6,10,13],once:[3,4,5,6,10,12,13,14],one:[1,3],onli:[0,2,3],onlin:[7,13,14],only:10,onto:[0,3,4,7,9,12,13],oop:6,open:[0,3],openurl:12,oper:[3,6],opit:0,opportun:5,optim:3,option:[0,3,5,6,7,9,10,12,14,15],order:[3,5,6,10,12,13,14,15],organ:[5,7],orient:11,origin:[3,5,7,9,12,14],other:[3,5,6,7,10,13,14,15],otherwis:[0,3,7,8],our:[3,5,6,7,8,9,11,12,13,14],ourselv:0,outcom:6,outgo:[0,5],output:[0,1,2],outputspeech:[0,1],outsid:5,over:[1,3,5],owl:[1,2],own:[0,5,10,14,15],packag:6,padlock:15,page:[0,3,6],paid:12,pain:2,pair:[3,5],palett:[7,10,12,14],panel:[4,10,15],paradigm:6,pars:12,part:[5,6,7,9,10,13,15],partial:3,participant_nam:5,party_s:5,pass:[3,5,10],password:12,past:[0,3,5,6,7,9,10,12,13,14,15],paus:4,payload:[0,3,5,6,7,9,10,12,13,14,15],payment:15,pencil:[1,2,10],peopl:5,per:5,perfect:0,perform:[0,2,5,6],perk:14,persist:[0,1,3,5,10],perviou:[0,6],phase:1,phone:[0,10,14,15],photo:14,phrase:[2,6],pick:[0,6],pictur:[5,9,13],piec:10,place:[3,5,6,10,13,14],plai:[0,3,4,6,12,14],plaintext:0,platform:[3,5,8,11],playback:9,pleas:[0,1,2,3,5,6,10,12],plu:10,plug:0,png:14,point:[1,4,5,6],polici:10,pop:[2,3,11,12],popul:[4,11,14],portion:9,posit:6,positive_respons:3,possibl:[5,10],post:13,pre:5,precis:5,predefin:10,predict:2,prefix:3,prepar:[6,8,12],present:5,press:[10,13,14,15],prevent:5,preview:12,previou:[1,2,12,13,15],previous:10,price:[5,12],primari:10,prioriti:[5,6],privaci:[0,10,12],problem:[6,10],proce:[1,10],proceed:3,process:2,produc:[3,5,6],product:[7,12],profil:[10,12],program:[14,15],progress:4,prompt:6,properti:[0,3,5,6,10,12,13,14,15],protect:10,provid:[0,2,5,6,8,10,11,12,13,14,15],publish:[0,12],push:[12,14],put:6,queri:5,quick:[7,8],quickli:2,quota:13,rain:7,random:[1,7,13],randomcat:13,randomli:6,rank:5,rate:[6,14],rather:5,raw:[3,12,13],raw_messag:13,raw_message_properti:13,reach:[3,5,13],read:[10,15],readi:[6,12,13],real:[0,3,10],receiv:[5,7,9,10,12,13,14,15],recent:6,recipi:[7,15],recognit:0,recommend:0,reconsid:3,recreat:1,red:[3,4,5],redefin:15,redeploi:13,redicrect_uri:13,redirect:10,rediriect:12,ref:7,refer:[6,12],reflect:0,refresh:[10,11],regard:14,regex:[5,12],region:0,regist:[0,9],registr:15,regular:2,reivew:6,reject:[5,6],relat:10,rememb:[1,5],remot:0,remov:[3,6,10,15],repeat:[0,6,7,13],replac:[12,15],repli:[0,7],repres:5,represent:14,reproduc:2,reprompttext:1,req_pend:6,reqreadi:6,request_address:6,request_hour:6,request_more_opt:6,request_r:6,request_suggest:6,requir:[6,7,9,10,12,13,14],reserv:5,reset:[5,15],resourc:[8,10,11],respect:[2,3],respond:[0,6,11,13,14,15],respons:[0,3,5,6,10,14],responsegroup:12,rest:[0,5,10],restaur:6,restaurant_nam:5,restful:3,restor:10,restrict:3,result:[3,5],retriev:[1,10],revers:8,review:[6,14],review_count:[6,14],ride:10,right:[1,3,4,5,7,9,11,12,13,14,15],robust:6,room:5,rough:14,router:[0,1],rule:[10,12],run:[5,15],sai:[0,1,2,3,5,6,11],said:[0,3,6],same:[0,1,5,6,9,10],san:6,satisfi:5,save:[6,7,10,13,14,15],scan:9,scenario:[6,10],schema:[0,1,2],scope:10,screen:[3,5,15],screenshot:14,seafood:14,seamlessli:6,search:[6,7],searchindex:12,seattl:[6,14],second:[0,6,10,12,15],secret:[6,10,12,13,14],section:[0,2,3,5,6,7,9,10,11,12,13,14,15],see:[0,1,3,5,6,7,9,10,12,13,15],select:[0,1,3,5,6,7,9,10,11,12,13,14],selectbot:[13,14],send:[0,1,4,5,7],sender:[7,15],sendvenu:14,sens:5,sensit:3,sent:[0,5,9,13,14,15],sentenc:[0,3],seq:7,sequenc:[5,7],serv:13,server:[9,10,13,14],servic:[0,1,5,8],session:[0,1,3,7,8,10,12,13,14],sessionattribut:[0,1],sessionendedrequest:0,sessionid:0,set:[0,1,3,4,5,6,7,8],setinlin:14,setinlinegeo:14,setup:1,setupnam:[1,2],setupnamewhoint:[1,2],sever:[5,11],shall:3,share:[10,14],shift:6,shop:4,should:[0,2,3,4,5,6,7,9,10,12,13,14,15],shouldendsess:0,show:[0,2,3,7,9,12,13,14,15],showcas:6,shown:[2,3,5,10,15],sid:15,side:[11,13,15],sign:[6,12,15],similar:6,similarli:1,simpl:[0,3,6],simpli:[0,3,4,5],simplic:10,simplifi:10,simplist:14,simul:[0,1],sinc:3,singl:[0,3],situat:6,six:5,skip:[7,10,15],skype:8,slack:8,slash:8,slot:[0,1,2],slowli:0,small:[6,13],smart:[0,8],smooth:[0,2],sms:[5,8,10,15],snow:[1,2],solid:5,solut:2,some:[9,10],someon:14,someth:[3,4,6,9],sorri:[3,6],sound:6,sourc:[0,1,10],speak:1,special:[3,10],specif:[0,3,5,6,9,10,12],specifi:[0,3,10,12],speech:[0,1,2,6,8],speechpunchlin:1,speechtext:1,spell:[1,2],split:[10,12,14,15],split_len:14,ssml:[0,1],stage:1,stai:14,star:6,start:[0,3],start_citi:10,state:0,state_choic:6,statement:12,statu:6,step:[0,1,2],sticker:[9,14],still:[0,1,2,5,6,8,10,14],stop:10,stopintent:1,storag:10,store:[1,3,6,7,10],str:6,string:[0,3,4,5,7,9,12,13,14,15],stringifi:12,structur:[0,14],style:2,sub:15,submit:[0,3],subscrib:7,subscript:7,subtitl:12,successfulli:[1,13],sue:5,suggest:[0,6,9],superint:0,support:[0,1,2,3,4,6,8,9,12,13,14],sure:[3,6,12,15],symbol:5,syou:12,system:[2,3,5,6],tab:3,taco:6,tag:[0,1,3,4,6,9,11,12,13,14,15],take:[1,6,10,14],talk:[11,14],tap:9,task:11,teach:2,telegram:8,tellmeajokeint:[1,2],templat:3,ten:6,term:[6,10,12],text:[0,1,3,6,7,8,9,10,12,13,14,15],than:[3,5,10],thank:[3,6],thei:[0,5,10,13],them:[0,2,3,6,7,9,10,12,13,14,15],thi:[0,1,2,3,4,5,6,7,8,9,10,11,12,13,14,15],thing:2,think:5,third:[6,10,15],those:[0,6,10,15],thought:5,three:[0,2,6,13],through:[0,1,3,4,5],throughout:[5,6],thu:[1,3],thumb_url:14,tidi:[13,14,15],time:[0,1,3,5,6,10,12,14,15],timeout:[7,13,14],timestamp:[7,12],titl:[12,14],togeth:[3,6,9],toggl:[4,11],token:[0,3,5,6,7,9],tokyo:6,too:[5,10,15],tool:[0,4,12],toolbar:4,top:[3,9],touch:9,toward:3,train:3,transform:12,trashcan:4,tri:10,trial:15,trick:0,trim:14,truli:0,tune:15,twilio:[5,8],twillio:15,twitter:11,two:[0,3,5,6,10,13,14],type:[0,1,2,5,6,7,9,11,12,13,14,15],typic:5,uber:[5,8],uber_oauth2:10,ultim:0,unchang:[10,15],under:[0,3,5,6,7,8,11,12,13,14],understand:[0,3,5],unicod:15,uniqu:[9,13,14],univeristi:6,unlik:5,unlike:5,unpublish:0,updat:[3,5,6],update:5,upon:10,upper:[3,4,7,9,10,11,13,14],uri:13,url:[0,1,3,5,6,7,9,10,12],usabl:10,usag:0,use:[1,3,6,7,9,10,11,12,13,14],used:[13,14],user:[0,1,2,3,5],user_choic:6,user_id:12,user_nam:12,userid:0,usernam:[9,13,14],using:[1,9,12],usual:5,utter:[0,1,2,3,5,6],valid:10,valu:[0,5,6,7,10,12,15],vari:5,variou:[8,11,14],venu:14,verbatim:0,verbos:2,veri:[0,10],verif:7,verifi:7,version:0,via:[1,5,10,14],viabl:5,view:[13,14,15],visibl:15,visit:[1,5,12,13],visual:8,vnd:12,vocabulari:[0,5],voic:0,vote:13,wai:[0,3,5,8,10,15],wait:[0,3,11],walk:[1,3,4,6,10,12],walkthrough:0,want:[0,5,6,10,14,15],washington:6,watch:4,web:[5,9,10,11],webhook:[0,7,13],weblink:12,welcom:[0,6],well:[6,9],were:10,what:[0,1,2,3,4,5,6],when:[0,1,3,5,6,7,9,10,11,12,13,14,15],whenev:[1,3,5,6,13],where:[5,6,7,9,10,11],whether:[3,6],which:[0,3,5,6,9,10,12],whistl:8,who:[0,1,2,14,15],whole:[0,1,15],whom:1,whosthereint:[1,2],wildcard:0,window:[3,10,12,14],wire:[3,5,14],wise:[1,2],wish:[3,6],wishlist:12,within:[1,2,3,5],without:[0,1,3,10,15],won:10,woo:[1,2],word:[0,5],work:[0,1,5,6,8,12,13,14],workspac:[7,12],world:[5,10,11],would:[0,3,6,7,9],wrap:[0,5],wrapper:5,write:[6,9,12,13,15],written:7,wrong:10,xxx:[3,5,6,7,9,13],yeah:6,yellow:15,yelp:5,yelp_result:6,yet:[3,6,10],you:[0,1,2,3,4,5,6,7,9,10,11,12,13,14,15],yourself:11,zero:5,zip:6},titles:["Alexa Skill Tutorials","Advanced Alexa Skill Tutorial","Advanced Alexa Skill NLU Tutorial","ChatFlow Build A Bot Tutorial","Debug ChatFlow","Dialogue Nodes","Extended Example: A Conversational Yelp Bot","Facebook Tutorials","Welcome to ChatFlow","Kik Bot Tutorials","OAuth2/Uber Tutorials","ChatFlow Quick Start","Skype Bot Tutorials","Slack Bot Tutorials","Telegram Bot Tutorials","Twilio Bot Tutorials"],titleterms:{"case":[3,6],"export":[2,3],"final":[5,6],"function":15,"import":[3,7,9,13,14],"new":[7,11,12,13,14,15],about:6,access:[10,11],account:15,acquir:14,add:[3,15],adding:[3,4],advanc:[0,1,2,7,9,12,13,15],alexa:[0,1,2],amazon:12,answere:6,api:[5,14],app:[0,1,3,9,11,12,13,15],applic:[7,9,10,13],applicat:[1,9,10,13,14,15],ask:0,attach:9,attachment:9,aware:14,basic:[5,15],book:12,bot:[0,3,6,7,9,10,12,13,14,15],breakpoint:4,browser:9,build:3,button:7,card:0,cat:[0,9,13],certif:0,chatflow:[0,1,3,4,5,7,8,9,11,12,13,14,15],choic:6,choos:13,code:4,collect:6,color:9,command:13,companion:0,configur:[0,3,5,6,10,13,14,15],connect:13,content:[0,1,2,3,4,5,6,7,8,9,10,11,12,13,14,15],convers:[3,6],copi:0,creat:[0,1,2,3,6,7,9,10,11,12,13,14,15],credenti:14,custom:9,deal:3,debug:[4,15],demo:9,deploi:[3,4,13,14,15],descripton:10,dialogu:5,direct:5,echo:[0,7,9,12,13,14],enter:[3,5],exampl:6,explain:1,extend:6,facebook:7,finish:[0,12],flow:[5,6,10,14],forecast:7,format:2,free:3,from:[3,5,6,11,15],fulfil:6,get:[4,6,12],global:1,informat:[0,6],initial:6,inline:14,input:[3,5],insid:4,intent:0,interact:13,introduct:[0,1,2,3,4,6,10,11,15],joke:1,keyboard:9,kik:9,knock:1,languag:3,launch:0,line:4,link:5,locat:14,lunch:3,messag:13,miss:6,mobil:9,mode:4,more:0,move:4,multi:1,natur:3,nlu:[2,3,5,6,7,9,13],node:[0,3,4,5,7,9,10,12,13,14,15],oauth2:10,onli:5,open:4,ordere:5,out:[0,7,9,12,13,14,15],output:[3,5],overview:1,page:7,prefer:5,prepar:15,present:6,print:4,process:3,project:[2,6,11],queri:6,question:6,quick:11,reconfigur:3,redirect:13,regist:[10,12],reprompt:0,request:[0,6],result:6,reus:10,revers:15,router:[3,5,15],sampl:[0,11],scratch:[3,15],search:12,send:9,servic:10,session:15,set:[9,13,14],setup:[7,9,13,14],simpl:[7,9,10,12,13,14,15],skill:[0,1,2],skype:12,slack:13,slash:13,ssl:0,start:[4,6,11,12],state:[1,3,5],statu:14,step:4,summari:[2,5],support:15,tab:4,tabl:[0,1,2,3,4,5,6,7,9,10,11,12,13,14,15],team:13,telegram:14,tell:[0,1],templat:7,test:[0,10,12,13],thought:6,through:6,token:[10,14],track:1,turn:1,tutori:[0,1,2,3,7,9,10,12,13,14,15],twilio:15,uber:10,unabl:3,understand:6,url:13,user:6,utteranc:0,variabl:1,video:[0,1,3,6,7,9,10,12,13,14,15],walkthrough:[3,6,9,12,14],weather:7,welcom:8,wisegui:1,yelp:[6,14],your:[0,4,6,12,13]}})

diff --git a/chatflow/dialogue_nodes.html b/chatflow/dialogue_nodes.html
@@ -291,6 +291,10 @@ will prefer to choose an enter containing one or more entrance conditions involv
 with the goal of being responsive to user input.</p>
 <p>The router also remembers enter nodes it has evaluated in this dialogue turn. So an enter node is
 visited only once during each turn. This prevents the router from going to infinite loops.</p>
+<div class="admonition note">
+<p class="first admonition-title">Note</p>
+<p class="last">You can only add <em>one router per application</em>.</p>
+</div>
 </div>
 <div class="section" id="enter-nodes">
 <h2><a class="toc-backref" href="#id7">Enter Nodes</a><a class="headerlink" href="#enter-nodes" title="Permalink to this headline">¶</a></h2>
@@ -481,7 +485,7 @@ learn more about how they work!</p>
   <div role="contentinfo">
     <p  style="color:#999;">
         &copy; Copyright 2016, KITT.AI.
-      Last updated on Oct 31, 2016.
+      Last updated on Nov 02, 2016.
 
     </p>
   </div> 

diff --git a/chatflow/slack.html b/chatflow/slack.html
@@ -593,10 +593,6 @@ a Slack interactive messages.</p>
 <li>Click on the &#8220;Enable Interactive Messages&#8221; button to finish the process.</li>
 </ol>
 <img alt="_images/pasteButtonsURL.png" class="align-center" src="_images/pasteButtonsURL.png" />
-<div class="admonition-todo admonition" id="index-0">
-<p class="first admonition-title">Todo</p>
-<p class="last">write more about the &#8220;Cat 1&#8221; and &#8220;Cat 2&#8221; buttons that correspond to interactive messages.</p>
-</div>
 </div>
 <div class="section" id="redirect-url">
 <h4><a class="toc-backref" href="#id29">Redirect URL</a><a class="headerlink" href="#redirect-url" title="Permalink to this headline">¶</a></h4>
@@ -702,7 +698,7 @@ there.</p>
   <div role="contentinfo">
     <p  style="color:#999;">
         &copy; Copyright 2016, KITT.AI.
-      Last updated on Oct 31, 2016.
+      Last updated on Nov 02, 2016.
 
     </p>
   </div> 

diff --git a/chatflow/quickstart.html b/chatflow/quickstart.html
@@ -266,7 +266,7 @@ can talk directly with the bot.</li>
 </ol>
 <img alt="_images/EditorChat.png" class="align-center" src="_images/EditorChat.png" />
 <ol class="arabic simple" start="5">
-<li>Test your bot. Try saying &#8220;hi&#8221;, &#8220;hello&#8221;, and &#8220;goodbye&#8221; to the bot. The bot
+<li>Test your bot. Try saying “hi”, “hello”,&#8221;howdy&#8221; ,“goodbye”, &#8220;bye&#8221;, &#8220;bye bye&#8221; to the bot. The bot
 respond will respond with the appropriate message. If you try to say anything else, it
 will not understand you.</li>
 </ol>
@@ -296,7 +296,7 @@ waiting to be created! Are you up to the task?</p>
   <div role="contentinfo">
     <p  style="color:#999;">
         &copy; Copyright 2016, KITT.AI.
-      Last updated on Oct 31, 2016.
+      Last updated on Nov 02, 2016.
 
     </p>
   </div> 

diff --git a/chatflow/kik.html b/chatflow/kik.html
@@ -614,11 +614,6 @@ to deploy your NLU app!</li>
 </ol>
 <p>After deploying your application, you can write to your bot and tell him to show
 you a specific color cat.</p>
-<div class="admonition-todo admonition" id="index-0">
-<p class="first admonition-title">Todo</p>
-<p class="last">write more about the &#8220;Cat 1&#8221; and &#8220;Cat 2&#8221; buttons that correspond to interactive messages.
-&#64;xuchen: May I ask to make here a video, too?</p>
-</div>
 </div>
 </div>
 </div>
@@ -644,7 +639,7 @@ you a specific color cat.</p>
   <div role="contentinfo">
     <p  style="color:#999;">
         &copy; Copyright 2016, KITT.AI.
-      Last updated on Oct 31, 2016.
+      Last updated on Nov 02, 2016.
 
     </p>
   </div> 

diff --git a/chatflow/extended_example.html b/chatflow/extended_example.html
@@ -1114,7 +1114,7 @@ Sample Project&#8221; on the <a class="reference external" href="https://chatflo
   <div role="contentinfo">
     <p  style="color:#999;">
         &copy; Copyright 2016, KITT.AI.
-      Last updated on Oct 31, 2016.
+      Last updated on Nov 02, 2016.
 
     </p>
   </div> 

diff --git a/chatflow/alexa.html b/chatflow/alexa.html
@@ -565,7 +565,7 @@ tutorial <a class="reference internal" href="alexa_advanced.html#alexa-advanced"
   <div role="contentinfo">
     <p  style="color:#999;">
         &copy; Copyright 2016, KITT.AI.
-      Last updated on Oct 31, 2016.
+      Last updated on Nov 02, 2016.
 
     </p>
   </div> 

diff --git a/chatflow/oauth2.html b/chatflow/oauth2.html
@@ -532,7 +532,7 @@ credentials it obtained and stored in the mock &#8220;database&#8221; (<code cla
   <div role="contentinfo">
     <p  style="color:#999;">
         &copy; Copyright 2016, KITT.AI.
-      Last updated on Oct 31, 2016.
+      Last updated on Nov 02, 2016.
 
     </p>
   </div> 

diff --git a/chatflow/telegram.html b/chatflow/telegram.html
@@ -841,7 +841,7 @@ look at the full tutorial of <a class="reference internal" href="extended_exampl
   <div role="contentinfo">
     <p  style="color:#999;">
         &copy; Copyright 2016, KITT.AI.
-      Last updated on Oct 31, 2016.
+      Last updated on Nov 02, 2016.
 
     </p>
   </div> 

diff --git a/chatflow/index.html b/chatflow/index.html
@@ -313,7 +313,7 @@ few more bells and whistles, but otherwise, it is complete!</p>
   <div role="contentinfo">
     <p  style="color:#999;">
         &copy; Copyright 2016, KITT.AI.
-      Last updated on Oct 31, 2016.
+      Last updated on Nov 02, 2016.
 
     </p>
   </div> 

diff --git a/chatflow/build_a_bot.html b/chatflow/build_a_bot.html
@@ -703,7 +703,7 @@ and configure it to your ChatFlow App.</p>
   <div role="contentinfo">
     <p  style="color:#999;">
         &copy; Copyright 2016, KITT.AI.
-      Last updated on Oct 31, 2016.
+      Last updated on Nov 02, 2016.
 
     </p>
   </div> 

diff --git a/chatflow/debug.html b/chatflow/debug.html
@@ -340,7 +340,7 @@ print a message to the debug panel.</p>
   <div role="contentinfo">
     <p  style="color:#999;">
         &copy; Copyright 2016, KITT.AI.
-      Last updated on Oct 31, 2016.
+      Last updated on Nov 02, 2016.
 
     </p>
   </div> 
